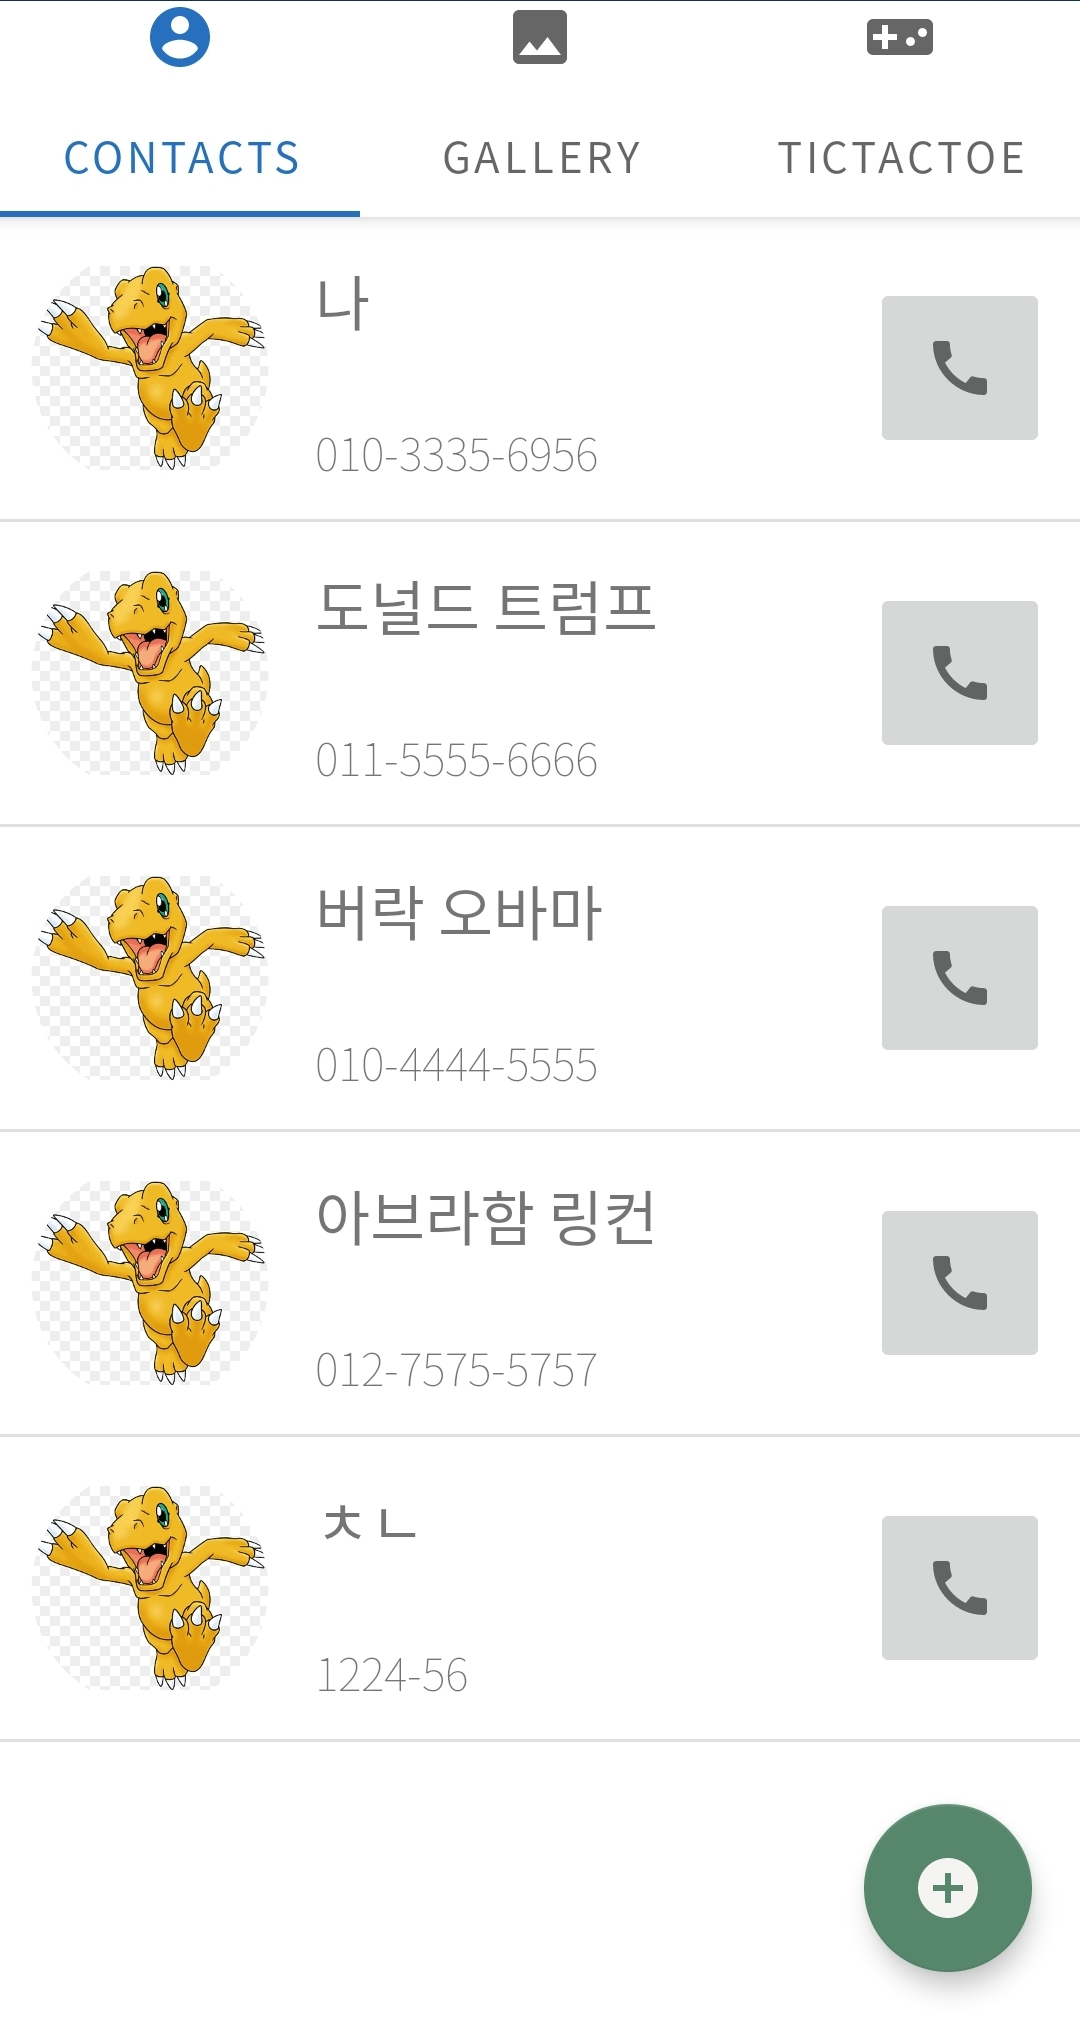
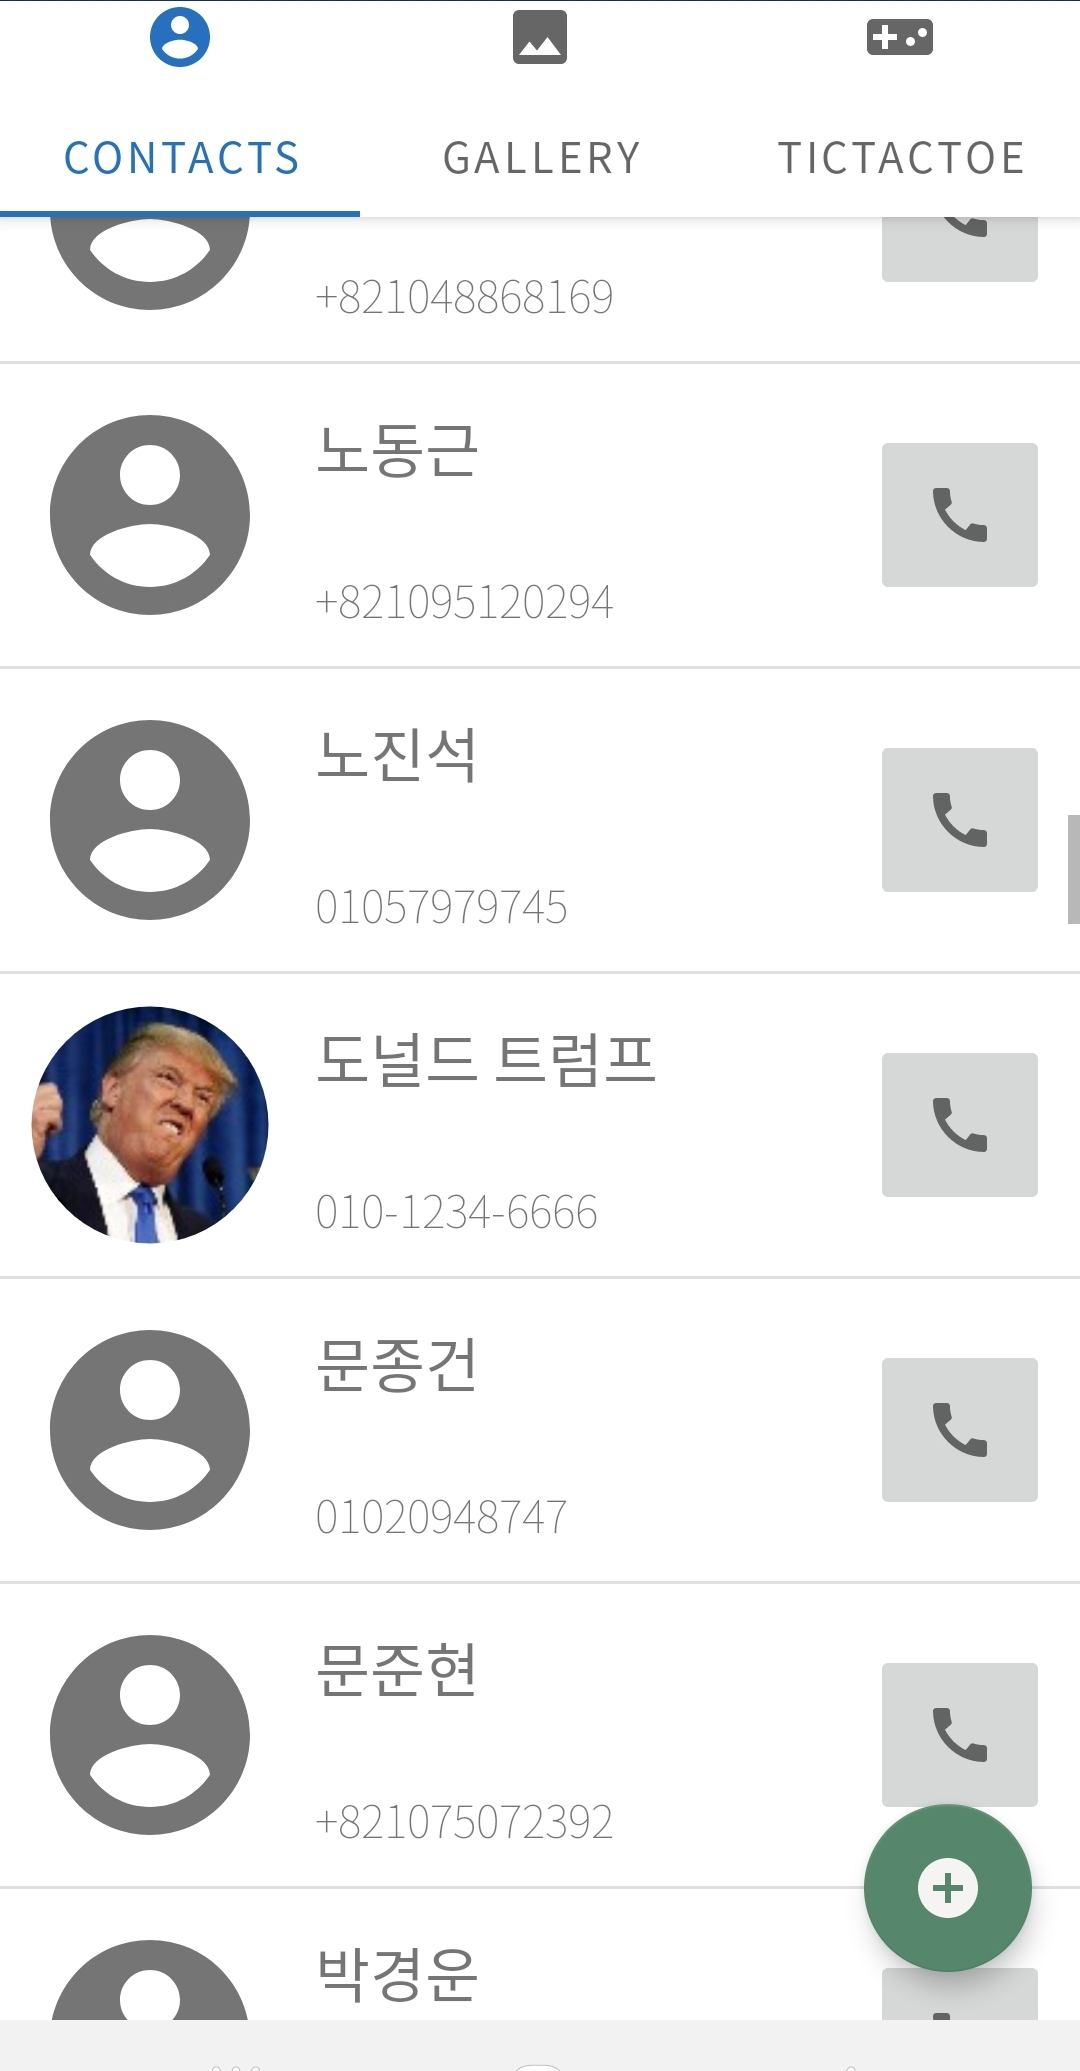
Feature/app design (#7)
* feat: Change theme

* feat: Set theme

* feat: Add WRITE_CONTACTS Permission

* feat: Add FAB to phone fragment

* feat: Add add circle drawable

* feat: Set gallery image size to max 20

* feat: Add add contact

* feat: Change contacts design

* feat: Add gallery async

* feat: Add gallery async 2

* feat: Add contacts default image

* feat: Fix thumbnail issue

* readme screenshot change

diff --git a/app/src/main/java/com/flowcamp/tab/ui/main/PhoneFragment.java b/app/src/main/java/com/flowcamp/tab/ui/main/PhoneFragment.java
@@ -2,13 +2,21 @@ package com.flowcamp.tab.ui.main;
 
 import android.annotation.SuppressLint;
 import android.app.AlertDialog;
+import android.content.ContentResolver;
+import android.content.ContentUris;
 import android.content.Context;
 import android.content.Intent;
 import android.database.Cursor;
+import android.graphics.Bitmap;
+import android.graphics.BitmapFactory;
+import android.graphics.ImageDecoder;
 import android.net.Uri;
+import android.os.Build;
 import android.os.Bundle;
 import android.provider.ContactsContract;
 import android.provider.ContactsContract.CommonDataKinds;
+import android.provider.MediaStore;
+import android.util.Log;
 import android.view.LayoutInflater;
 import android.view.View;
 import android.view.ViewGroup;
@@ -24,6 +32,9 @@ import com.flowcamp.tab.PhoneListViewAdapter;
 import com.flowcamp.tab.R;
 import com.flowcamp.tab.databinding.FragmentPhoneBinding;
 
+import java.io.ByteArrayInputStream;
+import java.io.IOException;
+import java.io.InputStream;
 import java.util.ArrayList;
 
 public class PhoneFragment extends Fragment {
@@ -57,6 +68,7 @@ public class PhoneFragment extends Fragment {
         pageViewModel.setIndex(index);
     }
 
+    @SuppressLint("WrongThread")
     @Override
     public View onCreateView(LayoutInflater inflater, ViewGroup container,
                              Bundle savedInstanceState) {
@@ -74,19 +86,32 @@ public class PhoneFragment extends Fragment {
         };
 
         String sortOrder = CommonDataKinds.Phone.DISPLAY_NAME + " COLLATE LOCALIZED ASC";
+        String[] PHOTO_BITMAP_PROJECTION = new String[] {
+                CommonDataKinds.Photo.PHOTO
+        };
 
         try {
             @SuppressLint("Recycle") Cursor cursor = context.getContentResolver().query(uri, projection, null, null, sortOrder);
             if (cursor.moveToFirst()) {
                 do {
-                    Phone phone = new Phone((int) cursor.getLong(0), cursor.getString(1), cursor.getString(2));
+                    @SuppressLint("Range") long id = cursor.getLong(cursor.getColumnIndex(ContactsContract.Contacts._ID));
+                    Bitmap photo = null;
+
+                    photo = getFacebookPhoto(context, cursor.getString(2));
+
+                    Phone phone = new Phone(
+                            (int) cursor.getLong(0),
+                            cursor.getString(1),
+                            cursor.getString(2),
+                            photo);
                     phoneArrayList.add(phone);
 
                 } while (cursor.moveToNext());
             }
+            cursor.close();
         } catch (SecurityException ignored) {
             ignored.printStackTrace();
-            phoneArrayList.add(new Phone(1, "연락처 접근 권한을 허용해주세요", ""));
+            phoneArrayList.add(new Phone(1, "연락처 접근 권한을 허용해주세요", "", null));
         }
 
         PhoneListViewAdapter adapter = new PhoneListViewAdapter(context, phoneArrayList);
@@ -123,6 +148,37 @@ public class PhoneFragment extends Fragment {
         return rootView;
     }
 
+    public Bitmap getFacebookPhoto(Context context, String phoneNumber) {
+        Uri phoneUri = Uri.withAppendedPath(ContactsContract.PhoneLookup.CONTENT_FILTER_URI, Uri.encode(phoneNumber));
+        Uri photoUri = null;
+        ContentResolver cr = context.getContentResolver();
+        Cursor contact = cr.query(phoneUri,
+                new String[] { ContactsContract.Contacts._ID }, null, null, null);
+
+        Bitmap defaultPhoto = null;
+        if (contact.moveToFirst()) {
+            @SuppressLint("Range") long userId = contact.getLong(contact.getColumnIndex(ContactsContract.Contacts._ID));
+            photoUri = ContentUris.withAppendedId(ContactsContract.Contacts.CONTENT_URI, userId);
+
+        }
+        else {
+//            Bitmap defaultPhoto = BitmapFactory.decodeResource(getResources(), android.R.drawable.ic_menu_report_image);
+            return defaultPhoto;
+        }
+        if (photoUri != null) {
+            InputStream input = ContactsContract.Contacts.openContactPhotoInputStream(
+                    cr, photoUri);
+            if (input != null) {
+                return BitmapFactory.decodeStream(input);
+            }
+        } else {
+//            Bitmap defaultPhoto = BitmapFactory.decodeResource(getResources(), android.R.drawable.ic_menu_report_image);
+            return defaultPhoto;
+        }
+//        Bitmap defaultPhoto = BitmapFactory.decodeResource(getResources(), android.R.drawable.ic_menu_report_image);
+        return defaultPhoto;
+    }
+
     public void addContact(String name, String number) {
         Intent intent = new Intent(
                 ContactsContract.Intents.SHOW_OR_CREATE_CONTACT,
@@ -138,4 +194,5 @@ public class PhoneFragment extends Fragment {
         super.onDestroyView();
         binding = null;
     }
+
 }

diff --git a/app/src/main/java/com/flowcamp/tab/PhoneListViewAdapter.java b/app/src/main/java/com/flowcamp/tab/PhoneListViewAdapter.java
@@ -2,12 +2,15 @@ package com.flowcamp.tab;
 
 import android.content.Context;
 import android.content.Intent;
+import android.graphics.Bitmap;
 import android.net.Uri;
 import android.view.View;
 import android.view.ViewGroup;
 import android.widget.BaseAdapter;
 import android.widget.ImageButton;
 import android.widget.TextView;
+
+import com.google.android.material.imageview.ShapeableImageView;
 
 import java.util.ArrayList;
 
@@ -45,6 +48,12 @@ public class PhoneListViewAdapter extends BaseAdapter {
         } else viewPhone = convertView;
 
         Phone phone = (Phone) getItem(position);
+        ShapeableImageView siv = (ShapeableImageView) viewPhone.findViewById(R.id.pn_profile);
+        if (phone.profile != null) {
+            siv.setImageBitmap(phone.profile);
+        } else {
+            siv.setImageResource(R.drawable.ic_baseline_account_circle_24);
+        }
         ((TextView) viewPhone.findViewById(R.id.namepn)).setText(String.format("%s", phone.name));
         ((TextView) viewPhone.findViewById(R.id.numpn)).setText(String.format("%s", phone.num));
         ((ImageButton) viewPhone.findViewById(R.id.call)).setOnClickListener(view -> {

diff --git a/app/src/main/java/com/flowcamp/tab/Phone.java b/app/src/main/java/com/flowcamp/tab/Phone.java
@@ -1,13 +1,17 @@
 package com.flowcamp.tab;
 
+import android.graphics.Bitmap;
+
 public class Phone {
     String name;
     String num;
+    Bitmap profile;
     int phoneId;
 
-    public Phone(int phoneId, String name, String num) {
+    public Phone(int phoneId, String name, String num, Bitmap profile) {
         this.name = name;
         this.num = num;
+        this.profile = profile;
         this.phoneId = phoneId;
     }
 
@@ -18,4 +22,6 @@ public class Phone {
     public String getNum() {
         return num;
     }
+
+    public Bitmap getProfile() { return profile; }
 }

diff --git a/readme.md b/readme.md
@@ -1,0 +1,87 @@
+# 몰입캠프 1주차
+
+Simple overview of use/purpose.
+
+김성준, 정강산
+
+## Description
+
+An in-depth paragraph about your project and overview of use.
+
+## Getting Started
+
+### Dependencies
+
+- Describe any prerequisites, libraries, OS version, etc., needed before installing program.
+- ex. Windows 10
+
+### Installing
+
+- How/where to download your program
+- Any modifications needed to be made to files/folders
+
+### Executing program
+
+- How to run the program
+- Step-by-step bullets
+
+```
+code blocks for commands
+```
+
+## Help
+
+Any advise for common problems or issues.
+
+```
+command to run if program contains helper info
+```
+
+## Authors
+
+Contributors names and contact info
+
+ex. Dominique Pizzie  
+ex. [@DomPizzie](https://twitter.com/dompizzie)
+
+## Version History
+
+- 0.2
+  - Various bug fixes and optimizations
+  - See [commit change]() or See [release history]()
+- 0.1
+  - Initial Release
+
+## License
+
+This project is licensed under the [NAME HERE] License - see the LICENSE.md file for details
+
+## Acknowledgments
+
+Inspiration, code snippets, etc.
+
+- [awesome-readme](https://github.com/matiassingers/awesome-readme)
+- [PurpleBooth](https://gist.github.com/PurpleBooth/109311bb0361f32d87a2)
+- [dbader](https://github.com/dbader/readme-template)
+- [zenorocha](https://gist.github.com/zenorocha/4526327)
+- [fvcproductions](https://gist.github.com/fvcproductions/1bfc2d4aecb01a834b46)
+- [MiniMax](https://en.wikipedia.org/wiki/Minimax)
+
+## TAB 1 - 연락처
+
+<img src="./readme_res/tab1.jpg" width=250px>
+ㅁㅁㅁ
+
+## TAB 2 - 갤러리
+
+<img src="./readme_res/tab2.jpg" width=250px>
+
+- AsyncTask 클래스 이용 -> 비동기적으로 갤러리의 이미지들을 로드한다.
+- 이미지의 비율을 유지한 갤러리 구성을 보여준다
+
+## TAB 3 - 틱택토 게임
+
+<img src="./readme_res/tab3.jpg" width=250px>
+
+ㅁㅁ
+ㅁ
